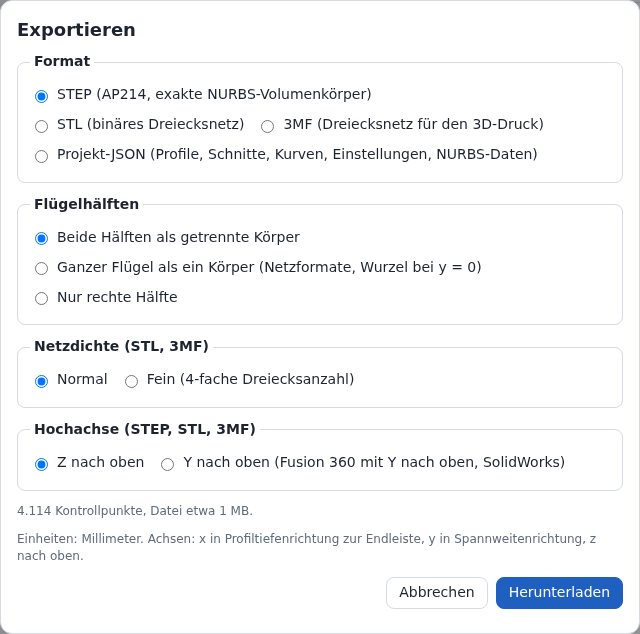
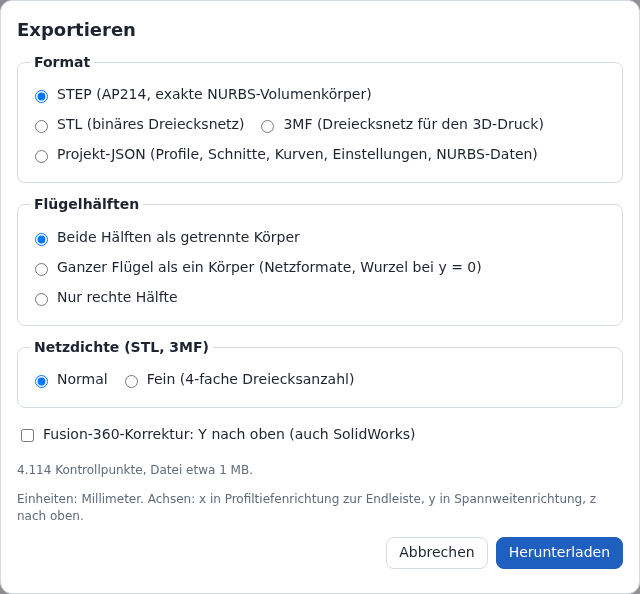
Make the up axis a Fusion 360 fix checkbox in the export dialog
The Up axis group with two radio buttons becomes one checkbox,
"Fusion 360 fix: Y up (also SolidWorks)". On writes STEP, STL and 3MF
with Y as the up axis, (x, z, -y); off keeps the app axes. The stored
choice, the axes note and the files are unchanged.

diff --git a/e2e/export.spec.js b/e2e/export.spec.js
@@ -10,7 +10,7 @@ import { strFromU8, unzipSync } from 'fflate';
 import {
   FORMAT_LABEL,
   STORAGE_KEY,
-  UP_LABEL,
+  FUSION_FIX,
   VALID_RE,
   collectErrors,
   commit,
@@ -226,13 +226,13 @@ test.describe('export dialog', () => {
     expect(Math.min(...ys)).toBeCloseTo(-Math.max(...ys), 3);
   });
 
-  test('Y up writes the part turned for CAD programs with Y as the up axis, and the dialog keeps the choice', async ({ page }) => {
+  test('the Fusion 360 fix writes the part with Y up, and the dialog keeps the choice', async ({ page }) => {
     await createDesign(page, 'Sport');
     const dlg = await openExport(page);
     const axes = dlg.getByText(/^Units: millimetres\. Axes:/);
-    await expect(dlg.getByLabel(UP_LABEL.z)).toBeChecked();
+    await expect(dlg.getByLabel(FUSION_FIX)).not.toBeChecked();
     await expect(axes).toHaveText('Units: millimetres. Axes: x chordwise towards the trailing edge, y spanwise, z up.');
-    await dlg.getByLabel(UP_LABEL.y).check();
+    await dlg.getByLabel(FUSION_FIX).check();
     await expect(axes).toHaveText('Units: millimetres. Axes: x chordwise towards the trailing edge, y up, z spanwise towards the left tip.');
     // The project JSON keeps the axes of the app.
     await dlg.getByLabel(FORMAT_LABEL.json).check();
@@ -249,11 +249,11 @@ test.describe('export dialog', () => {
     expect(signedVolume(yUp)).toBeCloseTo(signedVolume(zUp), 1);
 
     // The next export and a reload start with the last choice; Z up brings the app axes back.
-    await expect((await openExport(page)).getByLabel(UP_LABEL.y)).toBeChecked();
+    await expect((await openExport(page)).getByLabel(FUSION_FIX)).toBeChecked();
     await dialogOf(page).getByRole('button', { name: 'Cancel' }).click();
     await page.reload();
     await expect(status(page)).toHaveText(SPORT_STATUS);
-    await expect((await openExport(page)).getByLabel(UP_LABEL.y)).toBeChecked();
+    await expect((await openExport(page)).getByLabel(FUSION_FIX)).toBeChecked();
     await dialogOf(page).getByRole('button', { name: 'Cancel' }).click();
     const back = parseStl((await exportFile(page, 'stl', { half: 'right', up: 'z' })).bytes).tris;
     expect(back.map((t) => t.map(({ p }) => p))).toEqual(zUp.map((t) => t.map(({ p }) => p)));

diff --git a/src/ui/exportui.js b/src/ui/exportui.js
@@ -83,7 +83,7 @@ export function exportDialog(store, getBuild, version, notify = () => {}) {
     h('label', { class: 'check' }, h('input', { type: 'radio', name: group, value, checked, disabled }), label);
   const sizeNote = h('p', { class: 'small', 'aria-live': 'polite' });
   const downloadBtn = h('button', { value: 'ok', class: 'primary' }, tr('Download'));
-  const choice = (form) => ({ fmt: form.fmt.value, half: form.half.value, dens: Number(form.dens.value), up: form.up.value });
+  const choice = (form) => ({ fmt: form.fmt.value, half: form.half.value, dens: Number(form.dens.value), up: form.fusion.checked ? 'y' : 'z' });
   const up = storedUpAxis();
   const axesNote = h('p', { class: 'small muted' });
   const refresh = () => {
@@ -123,13 +123,8 @@ export function exportDialog(store, getBuild, version, notify = () => {}) {
         radio('half', 'right', tr('Right half only'), false),
       ),
       h('fieldset', {}, h('legend', {}, tr('Mesh density (STL, 3MF)')), radio('dens', '1', tr('Normal'), true), radio('dens', '2', tr('Fine (4x triangles)'), false)),
-      h(
-        'fieldset',
-        {},
-        h('legend', {}, tr('Up axis (STEP, STL, 3MF)')),
-        radio('up', 'z', tr('Z up'), up === 'z'),
-        radio('up', 'y', tr('Y up (Fusion 360 set to Y up, SolidWorks)'), up === 'y'),
-      ),
+      // The Fusion 360 fix: Y as the up axis (src/export/axes.js) for STEP, STL and 3MF.
+      h('label', { class: 'check' }, h('input', { type: 'checkbox', name: 'fusion', checked: up === 'y' }), tr('Fusion 360 fix: Y up (also SolidWorks)')),
       sizeNote,
       axesNote,
       h('div', { class: 'row end' }, h('button', { type: 'button', onclick: () => dialog.close('cancel') }, tr('Cancel')), downloadBtn),
@@ -145,7 +140,7 @@ export function exportDialog(store, getBuild, version, notify = () => {}) {
     const fmt = data.get('fmt');
     const half = data.get('half');
     const dens = Number(data.get('dens'));
-    const upAxis = data.get('up');
+    const upAxis = data.get('fusion') === 'on' ? 'y' : 'z';
     if (fmt !== 'json') {
       try {
         localStorage.setItem(UP_AXIS_KEY, upAxis);

diff --git a/e2e/helpers.js b/e2e/helpers.js
@@ -247,7 +247,8 @@ export async function downloadOf(page, trigger) {
 export const FORMAT_LABEL = { step: /^STEP/, stl: /^STL/, '3mf': /^3MF/, json: /^Project JSON/ };
 export const HALF_LABEL = { halves: /^Both halves as separate bodies/, merged: /^Full wing as one body/, right: /^Right half only/ };
 export const DENS_LABEL = { normal: /^Normal/, fine: /^Fine/ };
-export const UP_LABEL = { z: /^Z up$/, y: /^Y up/ };
+/** The checkbox that writes Y as the up axis (the Fusion 360 fix). */
+export const FUSION_FIX = /^Fusion 360 fix: Y up/;
 
 export async function openExport(page) {
   await page.getByRole('button', { name: 'Export', exact: true }).click();
@@ -262,8 +263,9 @@ export async function exportFile(page, fmt, { half = 'halves', dens = 'normal', 
   await dlg.getByLabel(FORMAT_LABEL[fmt]).check();
   await dlg.getByLabel(HALF_LABEL[half]).check();
   await dlg.getByLabel(DENS_LABEL[dens]).check();
-  // Without `up` the dialog keeps the up axis it starts with (the one of the last export).
-  if (up) await dlg.getByLabel(UP_LABEL[up]).check();
+  // Without `up` the dialog keeps the up axis it starts with (the one of the last export); 'y' is the
+  // Fusion 360 fix.
+  if (up) await dlg.getByLabel(FUSION_FIX).setChecked(up === 'y');
   const file = await downloadOf(page, () => dlg.getByRole('button', { name: 'Download' }).click());
   await expect(dialogOf(page)).toHaveCount(0);
   return file;

diff --git a/src/i18n/de/panels.js b/src/i18n/de/panels.js
@@ -126,9 +126,7 @@ export default {
   'Fine (4x triangles)': 'Fein (4-fache Dreiecksanzahl)',
   'Units: millimetres. Axes: x chordwise towards the trailing edge, y up, z spanwise towards the left tip.':
     'Einheiten: Millimeter. Achsen: x in Profiltiefenrichtung zur Endleiste, y nach oben, z in Spannweitenrichtung zum linken Flügelende.',
-  'Up axis (STEP, STL, 3MF)': 'Hochachse (STEP, STL, 3MF)',
-  'Z up': 'Z nach oben',
-  'Y up (Fusion 360 set to Y up, SolidWorks)': 'Y nach oben (Fusion 360 mit Y nach oben, SolidWorks)',
+  'Fusion 360 fix: Y up (also SolidWorks)': 'Fusion-360-Korrektur: Y nach oben (auch SolidWorks)',
   'Units: millimetres. Axes: x chordwise towards the trailing edge, y spanwise, z up.': 'Einheiten: Millimeter. Achsen: x in Profiltiefenrichtung zur Endleiste, y in Spannweitenrichtung, z nach oben.',
   '{n} control points, file {size}': '{n} Kontrollpunkte, Datei {size}',
   '{n} million control points, file {size}': '{n} Millionen Kontrollpunkte, Datei {size}',

diff --git a/docs/wiki/Dateiformate.md b/docs/wiki/Dateiformate.md
@@ -931,11 +931,11 @@ Fixture B (Einstellwinkel 1°, Position 50, 0, 10 mm; Clark Y an den Schnitten 1
 | **Nur rechte Hälfte** (Right half only) | 1 Volumenkörper | 1 geschlossene Hülle | 1 Objekt: `Wing right` |
 
 - **Ganzer Flügel als ein Körper** (Full wing as one body) setzt den Wurzelschnitt bei genau y = 0 mm voraus. Sonst enthalten STL und 3MF 2 Hüllen, wie bei **Beide Hälften als getrennte Körper**.
-- **Hochachse (STEP, STL, 3MF)** (Up axis (STEP, STL, 3MF)): **Z nach oben** schreibt die Achsen der App (x in Profiltiefenrichtung zur Endleiste, y in Spannweitenrichtung zum rechten Flügelende, z nach oben). **Y nach oben** schreibt jeden Punkt als (x, z, −y) und jede Richtung ebenso (`src/export/axes.js`): Die Oberseite zeigt nach +Y, die Profiltiefe verläuft entlang X, `right` liegt bei Z ≤ 0 und `left` bei Z ≥ 0. Die Drehung ist eine Rotation: Orientierungen, geschlossene Hüllen und Volumen bleiben. Die Weltlage der STEP-Datei (`AXIS2_PLACEMENT_3D` im Ursprung mit z- und x-Richtung) bleibt. Die Projekt-JSON enthält immer die Achsen der App. Warum und wann: [[Benutzerhandbuch|Benutzerhandbuch]], Abschnitt Export.
+- **Fusion-360-Korrektur: Y nach oben (auch SolidWorks)** (Fusion 360 fix: Y up (also SolidWorks)) (STEP, STL, 3MF): Ausgeschaltet schreibt der Export die Achsen der App (x in Profiltiefenrichtung zur Endleiste, y in Spannweitenrichtung zum rechten Flügelende, z nach oben). Eingeschaltet schreibt er jeden Punkt als (x, z, −y) und jede Richtung ebenso (`src/export/axes.js`): Die Oberseite zeigt nach +Y, die Profiltiefe verläuft entlang X, `right` liegt bei Z ≤ 0 und `left` bei Z ≥ 0. Die Drehung ist eine Rotation: Orientierungen, geschlossene Hüllen und Volumen bleiben. Die Weltlage der STEP-Datei (`AXIS2_PLACEMENT_3D` im Ursprung mit z- und x-Richtung) bleibt. Die Projekt-JSON enthält immer die Achsen der App. Warum und wann: [[Benutzerhandbuch|Benutzerhandbuch]], Abschnitt Export.
 - **Netzdichte (STL, 3MF)** (Mesh density (STL, 3MF)): **Normal** oder **Fein (4-fache Dreiecksanzahl)** (Fine (4x triangles)). **Fein** (Fine) teilt jedes u-Intervall (Profiltiefenrichtung) und jedes v-Intervall (Spannweitenrichtung) des **Normal**-Netzes in 2. Gemessene Dreieckszahl: 3,0- bis 3,9-fach gegenüber **Normal** (Tabelle „Dateigrößen“).
 - Aufbau der Dreiecksnetze und Dreieckszahlen: [[Geometrie|Geometrie]], Abschnitt 5 „Dreiecksnetze“.
 
-![Exportdialog: Format, Flügelhälften, Netzdichte, Hochachse](images/de/export-dialog.png)
+![Exportdialog: Format, Flügelhälften, Netzdichte, Fusion-360-Korrektur](images/de/export-dialog.png)
 
 ## STEP
 
@@ -952,8 +952,8 @@ Fixture B (Einstellwinkel 1°, Position 50, 0, 10 mm; Clark Y an den Schnitten 1
 | Einheiten | Millimeter, Radiant, Steradiant |
 | Toleranz | 1e-7 mm (`distance_accuracy_value`) |
 | Volumenkörper | 1 `MANIFOLD_SOLID_BREP` (Volumenkörper in Randdarstellung, boundary representation) je Hälfte |
-| Namen der Volumenkörper | `<name> right` (y ≥ 0; **Y nach oben**: Z ≤ 0), `<name> left` (gespiegelt, y ≤ 0; **Y nach oben**: Z ≥ 0) |
-| Achsen | **Z nach oben**: wie in der App; **Y nach oben**: (x, z, −y) (Abschnitt „Körper je Datei“) |
+| Namen der Volumenkörper | `<name> right` (y ≥ 0; mit **Fusion-360-Korrektur**: Z ≤ 0), `<name> left` (gespiegelt, y ≤ 0; mit **Fusion-360-Korrektur**: Z ≥ 0) |
+| Achsen | wie in der App; mit **Fusion-360-Korrektur**: (x, z, −y) (Abschnitt „Körper je Datei“) |
 | Formdarstellung | 1 `ADVANCED_BREP_SHAPE_REPRESENTATION` mit dem Namen `<name>` enthält alle Volumenkörper |
 | Flächen | `B_SPLINE_SURFACE_WITH_KNOTS`, nicht-rational: Oberseite, Unterseite, offene Endleiste. `PLANE`: Wurzel und Rand. |
 | Kantenkurven | `B_SPLINE_CURVE_WITH_KNOTS` |
@@ -973,7 +973,7 @@ Abschnitt 6 „STEP-Topologie“.
 | Je Dreieck | 50 Byte: Normale (3 × `float32`), 3 Eckpunkte (9 × `float32`), Attribut `uint16` = 0 |
 | Dateigröße | 84 + 50 × Dreieckszahl Byte |
 | Einheiten | mm. STL hat kein Einheitenfeld. |
-| Achsen | **Z nach oben**: wie in der App; **Y nach oben**: (x, z, −y) (Abschnitt „Körper je Datei“) |
+| Achsen | wie in der App; mit **Fusion-360-Korrektur**: (x, z, −y) (Abschnitt „Körper je Datei“) |
 | Normalen | Länge 1, aus den Eckpunkten berechnet; Eckpunkte von außen gesehen gegen den Uhrzeigersinn, Normalen zeigen nach außen |
 
 ## 3MF
@@ -983,7 +983,7 @@ Abschnitt 6 „STEP-Topologie“.
 | Paket | Zip, Deflate-Stufe 6: `[Content_Types].xml`, `_rels/.rels`, `3D/3dmodel.model` |
 | Namensraum | `http://schemas.microsoft.com/3dmanufacturing/core/2015/02` (3MF Core) |
 | `<model>` | `unit="millimeter"`, `xml:lang="en-US"` |
-| Achsen | **Z nach oben**: wie in der App; **Y nach oben**: (x, z, −y) (Abschnitt „Körper je Datei“) |
+| Achsen | wie in der App; mit **Fusion-360-Korrektur**: (x, z, −y) (Abschnitt „Körper je Datei“) |
 | Metadaten | `Title` = `<name>` (Abschnitt „Dateinamen beim Export“), `Application` = `Wingdesigner` |
 | Objekte | 1 `<object type="model">` je Hülle, 1 `<build><item>` je Objekt; Namen: Tabelle „Körper je Datei“ |
 | Eckpunkte | 9 signifikante Stellen (genug für jede 32-Bit-Gleitkommazahl), kürzeste Form ohne Nullen am Ende, z. B. `1000000.12`, `0.123456789`, `12`; Beträge unter 1e-6 mm in Exponentenschreibweise, z. B. `-1e-7`; null als `0` |

diff --git a/docs/wiki/File-Formats.md b/docs/wiki/File-Formats.md
@@ -928,11 +928,11 @@ Fixture B (tilt angle 1°, position 50, 0, 10 mm; Clark Y at sections 1 and 2): 
 | **Right half only** | 1 solid | 1 closed shell | 1 object: `Wing right` |
 
 - **Full wing** needs the root section at exactly y = 0 mm. Otherwise STL and 3MF contain 2 shells, as with **Both halves**.
-- **Up axis (STEP, STL, 3MF)**: **Z up** writes the axes of the app (x chordwise towards the TE, y spanwise towards the right tip, z up). **Y up** writes every point as (x, z, −y) and every direction the same way (`src/export/axes.js`): the upper surface faces +Y, the chord runs along X, `right` lies at Z ≤ 0 and `left` at Z ≥ 0. The turn is a rotation: orientations, closed shells and volumes stay. The STEP world placement (`AXIS2_PLACEMENT_3D` at the origin with z and x directions) stays. The project JSON always holds the axes of the app. Why and when: [[User Guide|User-Guide]], section Export.
+- **Fusion 360 fix: Y up (also SolidWorks)** (STEP, STL, 3MF): off, the export writes the axes of the app (x chordwise towards the TE, y spanwise towards the right tip, z up). On, it writes every point as (x, z, −y) and every direction the same way (`src/export/axes.js`): the upper surface faces +Y, the chord runs along X, `right` lies at Z ≤ 0 and `left` at Z ≥ 0. The turn is a rotation: orientations, closed shells and volumes stay. The STEP world placement (`AXIS2_PLACEMENT_3D` at the origin with z and x directions) stays. The project JSON always holds the axes of the app. Why and when: [[User Guide|User-Guide]], section Export.
 - **Mesh density (STL, 3MF)**: **Normal** or **Fine (4x triangles)**. **Fine** splits every u interval (chordwise) and every v interval (spanwise) of the **Normal** mesh into 2. Measured triangle count: 3.0 to 3.9 times **Normal** (table "File sizes").
 - Mesh construction and triangle counts: [[Geometry|Geometry]], section 5 "Meshes".
 
-![Export dialog: format, wing halves, mesh density, up axis](images/export-dialog.png)
+![Export dialog: format, wing halves, mesh density, Fusion 360 fix](images/export-dialog.png)
 
 ## STEP
 
@@ -949,8 +949,8 @@ Fixture B (tilt angle 1°, position 50, 0, 10 mm; Clark Y at sections 1 and 2): 
 | Units | millimetre, radian, steradian |
 | Uncertainty | 1e-7 mm (`distance_accuracy_value`) |
 | Solids | 1 `MANIFOLD_SOLID_BREP` (boundary representation solid) per half |
-| Solid names | `<name> right` (y ≥ 0; **Y up**: Z ≤ 0), `<name> left` (mirrored, y ≤ 0; **Y up**: Z ≥ 0) |
-| Axes | **Z up**: as the app; **Y up**: (x, z, −y) (section "Bodies per file") |
+| Solid names | `<name> right` (y ≥ 0; with **Fusion 360 fix**: Z ≤ 0), `<name> left` (mirrored, y ≤ 0; with **Fusion 360 fix**: Z ≥ 0) |
+| Axes | as the app; with **Fusion 360 fix**: (x, z, −y) (section "Bodies per file") |
 | Shape representation | 1 `ADVANCED_BREP_SHAPE_REPRESENTATION` named `<name>` holds all solids |
 | Surfaces | `B_SPLINE_SURFACE_WITH_KNOTS`, non-rational: upper surface, lower surface, open TE. `PLANE`: root and tip. |
 | Edge curves | `B_SPLINE_CURVE_WITH_KNOTS` |
@@ -969,7 +969,7 @@ Faces, edges, orientation flags and the OpenCascade validation: [[Geometry|Geome
 | Per triangle | 50 bytes: normal (3 × `float32`), 3 vertices (9 × `float32`), attribute `uint16` = 0 |
 | File size | 84 + 50 × triangle count bytes |
 | Units | mm. STL has no unit field. |
-| Axes | **Z up**: as the app; **Y up**: (x, z, −y) (section "Bodies per file") |
+| Axes | as the app; with **Fusion 360 fix**: (x, z, −y) (section "Bodies per file") |
 | Normals | unit length, computed from the vertices; vertices counterclockwise seen from outside, normals point outward |
 
 ## 3MF
@@ -979,7 +979,7 @@ Faces, edges, orientation flags and the OpenCascade validation: [[Geometry|Geome
 | Package | zip, deflate level 6: `[Content_Types].xml`, `_rels/.rels`, `3D/3dmodel.model` |
 | Namespace | `http://schemas.microsoft.com/3dmanufacturing/core/2015/02` (3MF Core) |
 | `<model>` | `unit="millimeter"`, `xml:lang="en-US"` |
-| Axes | **Z up**: as the app; **Y up**: (x, z, −y) (section "Bodies per file") |
+| Axes | as the app; with **Fusion 360 fix**: (x, z, −y) (section "Bodies per file") |
 | Metadata | `Title` = `<name>` (section "Export file names"), `Application` = `Wingdesigner` |
 | Objects | 1 `<object type="model">` per shell, 1 `<build><item>` per object; names: table "Bodies per file" |
 | Vertices | 9 significant digits (enough for every 32-bit float), shortest form without trailing zeros, e.g. `1000000.12`, `0.123456789`, `12`; magnitudes below 1e-6 mm in exponent notation, e.g. `-1e-7`; zero as `0` |

diff --git a/docs/wiki/Benutzerhandbuch.md b/docs/wiki/Benutzerhandbuch.md
@@ -903,7 +903,7 @@ Gemessen je Änderung einer Profiltiefe im Browser: Chromium 141 headless, Softw
 
 ## Export
 
-![Exportdialog: Format, Flügelhälften, Netzdichte, Hochachse](images/de/export-dialog.png)
+![Exportdialog: Format, Flügelhälften, Netzdichte, Fusion-360-Korrektur](images/de/export-dialog.png)
 
 Der Exportdialog trägt den Titel **Exportieren** (Export).
 
@@ -925,16 +925,15 @@ Der Exportdialog trägt den Titel **Exportieren** (Export).
 | **Flügelhälften** | **Nur rechte Hälfte** (Right half only) | – |
 | **Netzdichte (STL, 3MF)** (Mesh density (STL, 3MF)) | **Normal** | ausgewählt |
 | **Netzdichte (STL, 3MF)** | **Fein (4-fache Dreiecksanzahl)** (Fine (4x triangles)): verdoppelt die Unterteilung in beiden Flächenrichtungen | – |
-| **Hochachse (STEP, STL, 3MF)** (Up axis (STEP, STL, 3MF)) | **Z nach oben** (Z up): die Achsen der App | ausgewählt, außer der letzte Export als STEP, STL oder 3MF nutzte **Y nach oben** |
-| **Hochachse (STEP, STL, 3MF)** | **Y nach oben (Fusion 360 mit Y nach oben, SolidWorks)** (Y up (Fusion 360 set to Y up, SolidWorks)): das Teil um −90° um x gedreht | – |
+| Kontrollkästchen | **Fusion-360-Korrektur: Y nach oben (auch SolidWorks)** (Fusion 360 fix: Y up (also SolidWorks)): STEP, STL und 3MF mit Y als Hochachse, das Teil um −90° um x gedreht | aus, außer es war beim letzten Export als STEP, STL oder 3MF an |
 
-Hochachse:
+Fusion-360-Korrektur:
 
 - Die App rechnet mit x in Profiltiefenrichtung zur Endleiste, y in Spannweitenrichtung zum rechten Flügelende und z nach oben. Ein CAD-Programm mit Y als Hochachse liest eine solche Datei mit der Spannweite nach oben und der Oberseite nach vorn. Beispiel: Fusion 360 mit **Preferences** > **General** > **Design** > **Default modeling orientation** „Y up“ (Bezeichnungen der englischen Oberfläche von Fusion 360) zeigt in seiner Draufsicht die Seite des Flügels.
-- **Y nach oben** schreibt jeden Punkt als (x, z, −y): Die Oberseite zeigt nach +Y, die Profiltiefe bleibt entlang X, die rechte Hälfte liegt bei Z ≤ 0 und die linke bei Z ≥ 0. Der Hinweis unter den Optionen nennt die Achsen der Datei: `Einheiten: Millimeter. Achsen: x in Profiltiefenrichtung zur Endleiste, y nach oben, z in Spannweitenrichtung zum linken Flügelende.`
-- Die Wahl gilt für STEP, STL und 3MF. Die Projekt-JSON behält die Achsen der App.
-- Der Dialog beginnt mit der Hochachse des letzten Exports als STEP, STL oder 3MF, im Browser unter `wingdesigner.upAxis` gespeichert. Ohne Browserspeicher beginnt er mit **Z nach oben**.
-- Andere Wege in Fusion 360: vor dem Öffnen einer Datei mit **Z nach oben** die **Default modeling orientation** auf „Z up“ stellen, oder den Körper um −90° um die X-Achse drehen (**Modify** > **Move/Copy**).
+- Mit eingeschaltetem Kontrollkästchen schreibt der Export jeden Punkt als (x, z, −y): Die Oberseite zeigt nach +Y, die Profiltiefe bleibt entlang X, die rechte Hälfte liegt bei Z ≤ 0 und die linke bei Z ≥ 0. Der Hinweis unter den Optionen nennt die Achsen der Datei: `Einheiten: Millimeter. Achsen: x in Profiltiefenrichtung zur Endleiste, y nach oben, z in Spannweitenrichtung zum linken Flügelende.`
+- Die Korrektur gilt für STEP, STL und 3MF. Die Projekt-JSON behält die Achsen der App.
+- Das Kontrollkästchen beginnt so, wie es beim letzten Export als STEP, STL oder 3MF war, im Browser unter `wingdesigner.upAxis` gespeichert (`y` für an, `z` für aus). Ohne Browserspeicher beginnt es ausgeschaltet.
+- Andere Wege in Fusion 360: vor dem Öffnen einer Datei ohne Korrektur die **Default modeling orientation** auf „Z up“ stellen, oder den Körper um −90° um die X-Achse drehen (**Modify** > **Move/Copy**).
 
 Für STL und 3MF nennt ein Hinweis unter der Netzdichte die Dreiecke und die Dateigröße für Format, Flügelhälften und Netzdichte der Auswahl, z. B. Entwurfstyp **Segelflugmodell** (Glider), STL, beide Hälften, **Normal**: `0,02 Millionen Dreiecke, Datei etwa 1,2 MB.` Projekt-JSON zeigt keinen Hinweis.
 

diff --git a/RECORD.md b/RECORD.md
@@ -44,7 +44,7 @@ Last updated: 2026-09-30
 | Mitred rolls from the section positions (y, z), not stored | No roll column to type or keep consistent. Cost: an XFLR5 import whose airfoil frames move sections builds rolls that differ from XFLR5's (0.6° and 1.1° on the untilted Fixture A, within 0.1 mm at its trailing edges; 0.005 mm on 9 flat real wings). A manual roll column (option e) is not decided. |
 | **Linear** panels between planes of different roll get the stations per panel (R4) | The airfoil lies in every plane between, as with guide curves. With one station per panel the loft would be the ruled surface of **Straight panels**. Presets with dihedral build 9 or 17 stations; the Sport wing follows the **Linear** blend exactly (1.4 % less volume than the ruled vertical build, 0.343 mm off it). |
 | Stretch limit 2 (60°) and fold tests are build errors; the stretch is never clamped (R6) | 1/cos grows without bound; a clamped stretch would build the wrong thickness without a message. The fold test runs between neighbouring sections before the loft (`planeFold`), at every check position of a **Linear** panel whose planes turn (the rate cos φ + tan δ · sin φ − t · dφ/dy across the plane of the station), and between neighbouring stations after the fit. The code review of 4534c32 found that the station test alone missed a fold inside the first station interval: 3 stations per panel built, and the right half crossed y = 0 by 0.08 to 0.7 mm; 4 and more stations reported it. |
-| Export option **Up axis**: **Z up** (default) or **Y up** = (x, z, −y), chord kept along X (owner decision of 2026-09-30) | Fusion 360 set to Y up (and SolidWorks) read the Z-up file with the span up and the upper surface to the front; the owner's photo of a Fusion import showed the side of the wing in the top view. The turn keeps the chord along X; the other offered mapping (span along X, nose to +Z) was not chosen. The choice is stored per browser, not in the project: it belongs to the CAD program. |
+| Export checkbox **Fusion 360 fix: Y up (also SolidWorks)**: off = the app axes, on = (x, z, −y), chord kept along X (owner decisions of 2026-09-30: the mapping, then one checkbox instead of two radio buttons) | Fusion 360 set to Y up (and SolidWorks) read the Z-up file with the span up and the upper surface to the front; the owner's photo of a Fusion import showed the side of the wing in the top view. The turn keeps the chord along X; the other offered mapping (span along X, nose to +Z) was not chosen. The choice is stored per browser, not in the project: it belongs to the CAD program. |
 | **Smooth** builds vertical planes with an info line (owner decision (b)) | The mitred construction along a spline is not built or measured; an error would block the sample wing's smooth variant, and a silent switch would hide the setting. |
 | XFLR5 import: untilted parts mitred, tilted parts vertical with `foldedTilt`, mitred parts that fold or stretch above 2 vertical (R5) | A rotation about y keeps vertical planes, so a folded tilt is exact only for them (0.45 mm off with mitred planes on Fixture A). The fallback is decided on the section values and airfoils (`mitredPlaneProblem`), without the loft, so it holds where the dialog does not build. A tilted part set to **Mitred** later gets a warning with the estimate (owner decision). |
 | Pointed tip: tip profile scaled to 1/100 to 1/1000 (default 1/200) of the previous section chord, at least 1 mm | A zero chord has no profile and no valid B-rep face; a scaled profile keeps the tip closed, profile-shaped and exportable. Converging guide curves end in this profile. |

diff --git a/README.de.md b/README.de.md
@@ -103,7 +103,7 @@ Beispiel: `Flügel V2 (neu)` → `Fluegel_V2_neu.step`.
 | | **Ganzer Flügel als ein Körper** (Full wing as one body) | STL und 3MF: 1 Hülle, nur wenn der Wurzelschnitt bei y = 0 liegt, sonst 2 Körper. STEP: 2 Volumenkörper. |
 | | **Nur rechte Hälfte** (Right half only) | 1 Körper |
 | **Netzdichte** (Mesh density) | **Normal** (Vorgabe), **Fein (4-fache Dreiecksanzahl)** (Fine (4x triangles)) | Nur STL und 3MF. Ein Hinweis unter den Optionen nennt Anzahl der Dreiecke und Dateigröße für das gewählte Format, die Flügelhälften und die Netzdichte: `… Millionen Dreiecke, Datei etwa … MB.` Über 2 000 000 Dreiecken fügt er `Der Export dauert … und belegt … Arbeitsspeicher.` hinzu. Über 10 000 000 Dreiecken ist **Herunterladen** (Download) gesperrt; der Hinweis nennt die Grenze und die Abhilfe: Netzdichte **Normal**, eine Hälfte, weniger Stationen je Profilseite oder je Feld. |
-| **Hochachse** (Up axis) (STEP, STL, 3MF) | **Z nach oben** (Vorgabe), **Y nach oben (Fusion 360 mit Y nach oben, SolidWorks)** | **Y nach oben** schreibt jeden Punkt (x, y, z) als (x, z, −y): Die Oberseite zeigt nach +Y, die Profiltiefe bleibt entlang X, die Spannweite verläuft entlang Z. Für CAD-Programme mit Y als Hochachse, die eine Datei mit Z nach oben auf der Seite liegend zeigen. Der Dialog beginnt mit der Wahl des letzten Exports (Browserspeicher). Die Projekt-JSON behält die Achsen der App. |
+| **Fusion-360-Korrektur: Y nach oben (auch SolidWorks)** (Fusion 360 fix: Y up (also SolidWorks)) (STEP, STL, 3MF) | aus (Vorgabe), an | Eingeschaltet schreibt der Export jeden Punkt (x, y, z) als (x, z, −y): Die Oberseite zeigt nach +Y, die Profiltiefe bleibt entlang X, die Spannweite verläuft entlang Z. Für CAD-Programme mit Y als Hochachse, die eine Datei mit Z nach oben auf der Seite liegend zeigen. Das Kontrollkästchen beginnt so, wie es beim letzten Export war (Browserspeicher). Die Projekt-JSON behält die Achsen der App. |
 | **Format** STEP | – | Ein Hinweis nennt Kontrollpunkte und Dateigröße für die gewählten Hälften: `… Kontrollpunkte, Datei etwa … MB.` Über 1 000 000 Kontrollpunkten fügt er Zeit und Arbeitsspeicher hinzu; über 3 000 000 ist **Herunterladen** gesperrt, und der Hinweis nennt die Grenze und die Abhilfe: eine Hälfte, weniger Stationen je Profilseite oder je Feld. |
 
 ## Profildaten und Lizenzen
@@ -192,7 +192,7 @@ Beispiel: `Flügel V2 (neu)` → `Fluegel_V2_neu.step`.
    Liegt keine Spannweitenposition zwischen der Zeile und dem nächsten Schnitt, zeigt **+** eine Meldung und fügt nichts ein. **×** löscht die Zeile (gesperrt bei 2 Schnitten).
 4. **Grundriss** (Planform): **Leitkurve verwenden** (Use guide curve) für Nasenlinie oder Endlinie ankreuzen. Punkte ziehen.
 5. **Prüfungen** (Checks): Fehler, Warnungen und Grundrisswerte lesen.
-6. **Exportieren** (Export): Format, Flügelhälften, Netzdichte und Hochachse wählen, dann **Herunterladen** (Download) klicken.
+6. **Exportieren** (Export): Format, Flügelhälften und Netzdichte wählen (für Fusion 360 mit Y nach oben: **Fusion-360-Korrektur**), dann **Herunterladen** (Download) klicken.
    Ein Hinweis nennt die Anzahl der Dreiecke (STL, 3MF) oder der Kontrollpunkte (STEP) und die Dateigröße; über 10 000 000 Dreiecken oder 3 000 000 Kontrollpunkten ist **Herunterladen** gesperrt.
 
 ## Ohne Internet

diff --git a/docs/wiki/User-Guide.md b/docs/wiki/User-Guide.md
@@ -898,7 +898,7 @@ Measured per chord edit in the browser: Chromium 141 headless, software renderin
 
 ## Export
 
-![Export dialog: format, wing halves, mesh density, up axis](images/export-dialog.png)
+![Export dialog: format, wing halves, mesh density, Fusion 360 fix](images/export-dialog.png)
 
 | Format | Meaning | Content |
 | --- | --- | --- |
@@ -918,16 +918,15 @@ Measured per chord edit in the browser: Chromium 141 headless, software renderin
 | Wing halves | **Right half only** | – |
 | Mesh density (STL, 3MF) | **Normal** | selected |
 | Mesh density (STL, 3MF) | **Fine (4x triangles)**: doubles the subdivision in both surface directions | – |
-| Up axis (STEP, STL, 3MF) | **Z up**: the axes of the app | selected, unless the last STEP, STL or 3MF export used **Y up** |
-| Up axis (STEP, STL, 3MF) | **Y up (Fusion 360 set to Y up, SolidWorks)**: the part turned by −90° about x | – |
+| Checkbox | **Fusion 360 fix: Y up (also SolidWorks)**: STEP, STL and 3MF with Y as the up axis, the part turned by −90° about x | off, unless it was on at the last STEP, STL or 3MF export |
 
-Up axis:
+Fusion 360 fix:
 
 - The app computes with x chordwise towards the trailing edge, y spanwise towards the right tip and z up. A CAD program with Y as the up axis reads such a file with the span pointing up and the upper surface facing its front. Example: Fusion 360 with **Preferences** > **General** > **Design** > **Default modeling orientation** set to **Y up** shows the side of the wing in its top view.
-- **Y up** writes every point as (x, z, −y): the upper surface faces +Y, the chord stays along X, the right half lies at Z ≤ 0 and the left half at Z ≥ 0. The note under the options names the axes of the file: `Units: millimetres. Axes: x chordwise towards the trailing edge, y up, z spanwise towards the left tip.`
-- The choice applies to STEP, STL and 3MF. The project JSON keeps the axes of the app.
-- The dialog starts with the up axis of the last STEP, STL or 3MF export, stored in the browser under `wingdesigner.upAxis`. Without browser storage it starts with **Z up**.
-- Other ways in Fusion 360: set **Default modeling orientation** to **Z up** before opening a **Z up** file, or turn the body by −90° about the X axis (**Modify** > **Move/Copy**).
+- With the checkbox on, the export writes every point as (x, z, −y): the upper surface faces +Y, the chord stays along X, the right half lies at Z ≤ 0 and the left half at Z ≥ 0. The note under the options names the axes of the file: `Units: millimetres. Axes: x chordwise towards the trailing edge, y up, z spanwise towards the left tip.`
+- The fix applies to STEP, STL and 3MF. The project JSON keeps the axes of the app.
+- The checkbox starts as it was at the last STEP, STL or 3MF export, stored in the browser under `wingdesigner.upAxis` (`y` for on, `z` for off). Without browser storage it starts off.
+- Other ways in Fusion 360: set **Default modeling orientation** to **Z up** before opening a file written without the fix, or turn the body by −90° about the X axis (**Modify** > **Move/Copy**).
 
 For STL and 3MF, a note under the mesh density gives the triangles and the file size of the chosen format, wing halves and density, e.g. Glider preset, STL, both halves, **Normal**: `0.02 million triangles, file about 1.2 MB.` Project JSON shows no note.
 

diff --git a/docs/wiki/Entwicklung.md b/docs/wiki/Entwicklung.md
@@ -53,7 +53,7 @@ Erzeugt und nicht eingecheckt (`.gitignore`): `dist/`, `coverage/`, `step-check/
 | `src/airfoil/naca.js` | Generator für 4- und 5-stellige NACA-Profile; `leadingNacaCode` findet den Code, mit dem ein Name beginnt (`NACA0014_Flap`) |
 | `src/airfoil/library.js` | 17 NACA-Vorlagen, mitgelieferte Bibliothek, externe Quellen; `librarySource` (Quellenangabe eines mitgelieferten Eintrags) |
 | `src/export/step.js` | STEP-Export; Dateiformat nach International Organization for Standardization (ISO) 10303-21 |
-| `src/export/axes.js` | Hochachse der exportierten Dateien: `UP_AXES`, `upAxisMap` (unverändert für Z nach oben, (x, z, −y) für Y nach oben), `meshToUpAxis` |
+| `src/export/axes.js` | Hochachse der exportierten Dateien (die Fusion-360-Korrektur des Exportdialogs): `UP_AXES`, `upAxisMap` (unverändert für Z nach oben, (x, z, −y) für Y nach oben), `meshToUpAxis` |
 | `src/export/stl.js` | Export als binäres STL (Stereolithografie) |
 | `src/export/threemf.js` | 3MF-Export |
 | `src/import/errors.js` | `XflrError`: Fehler auf Dateiebene der XFLR5-Leser, mit einem `code` und, bei einem `.xfl`-Projekt, dem Byte-`offset` |
@@ -490,7 +490,7 @@ x und z: Lage der Profilnase.
 | `pointed-elliptic-closed` | Spitzer Rand, Verhältnis 0,005 (1/200); Nasenlinie und Endlinie treffen sich bei x = 115 mm, y = 600 mm; geschlossene Endleiste | 2 |
 | `symmetric-0009` | NACA 0009 an jedem Schnitt | 2 |
 | `mitred-vtail-35` | Nicht der Basisflügel: 2 Schnitte mit NACA 0009, Profiltiefen 120 und 70 mm, der Rand 320 mm entlang eines Feldes mit 35°, x 40 mm; **Gerade Felder** (Straight panels), Schnittebenen **Auf Gehrung** (Mitred) (Randfläche um 35° geneigt) | 2 |
-| `mitred-vtail-35-y-up` | Wie `mitred-vtail-35`, mit **Y nach oben** geschrieben: jeder Punkt als (x, z, −y) | 2 |
+| `mitred-vtail-35-y-up` | Wie `mitred-vtail-35`, mit **Fusion-360-Korrektur** (Y nach oben) geschrieben: jeder Punkt als (x, z, −y) | 2 |
 | `mitred-gull-15-5` | z 80,3848 mm an Schnitt 2 und 54,1382 mm am Rand (Felder mit 15° und −5°); Schnittebenen **Auf Gehrung** (Neigungen 0°, 5°, −5°), lineare Interpolation mit 8 Stationen je Feld | 2 |
 
 ## Dokumentation
@@ -537,7 +537,7 @@ Desktop: 1280 x 800 CSS-Pixel, Geräteskalierung 1. Smartphone: Pixel 7, Geräte
 | `planform.png` | Registerkarte **Grundriss** (Planform), **Segelflugmodell**, Nasenlinie und Endlinie eingeschaltet | 600 x 730 | 600 x 730 |
 | `airfoils.png` | Registerkarte **Profile** (Airfoils), **Segelflugmodell** | 600 x 730 | 600 x 730 |
 | `upload-preview.png` | Vorschau beim Hochladen einer synthetischen X/Yo/Yu-Prozenttabelle mit Dezimalkomma, geöffnet über dem Entwurfstyp **Segelflugmodell** | 640 x 646 | 640 x 710 |
-| `export-dialog.png` | Dialog **Exportieren** (Export), **Segelflugmodell** | 640 x 588 | 640 x 634 |
+| `export-dialog.png` | Dialog **Exportieren** (Export), **Segelflugmodell** | 640 x 548 | 640 x 594 |
 | `settings.png` | Registerkarte **Einstellungen** (Settings), **Segelflugmodell** | 600 x 730 | 600 x 730 |
 | `checks.png` | Registerkarte **Prüfungen** (Checks), **Segelflugmodell** | 600 x 730 | 600 x 730 |
 | `flying-wing-control-net.png` | 3D-Ansicht, **Pfeilnurflügel** (Swept flying wing), **NURBS-Kontrollnetz zeigen** (Show NURBS control net) an | 680 x 730 | 680 x 730 |

diff --git a/docs/wiki/Development.md b/docs/wiki/Development.md
@@ -53,7 +53,7 @@ Generated and not committed (`.gitignore`): `dist/`, `coverage/`, `step-check/`,
 | `src/airfoil/naca.js` | NACA 4- and 5-digit generator; `leadingNacaCode` finds the code that starts a name (`NACA0014_Flap`) |
 | `src/airfoil/library.js` | 17 NACA presets, bundled library, external sources; `librarySource` (source record of a bundled entry) |
 | `src/export/step.js` | STEP writer; file format International Organization for Standardization (ISO) 10303-21 |
-| `src/export/axes.js` | Up axis of the exported files: `UP_AXES`, `upAxisMap` (identity for Z up, (x, z, −y) for Y up), `meshToUpAxis` |
+| `src/export/axes.js` | Up axis of the exported files (the Fusion 360 fix of the export dialog): `UP_AXES`, `upAxisMap` (identity for Z up, (x, z, −y) for Y up), `meshToUpAxis` |
 | `src/export/stl.js` | Binary stereolithography (STL) writer |
 | `src/export/threemf.js` | 3MF writer |
 | `src/import/errors.js` | `XflrError`: file-level error of the XFLR5 readers, with a `code` and, for an `.xfl` project, the byte `offset` |
@@ -490,7 +490,7 @@ x and z: position of the leading edge.
 | `pointed-elliptic-closed` | Pointed tip, ratio 0.005 (1/200); nose line and end line meet at x = 115 mm, y = 600 mm; closed trailing edge | 2 |
 | `symmetric-0009` | NACA 0009 at every section | 2 |
 | `mitred-vtail-35` | Not the base wing: 2 sections of NACA 0009, chords 120 and 70 mm, the tip 320 mm along a 35° panel, x 40 mm; **Straight panels**, **Mitred** section planes (tip cap rolled 35°) | 2 |
-| `mitred-vtail-35-y-up` | As `mitred-vtail-35`, written with **Y up**: every point as (x, z, −y) | 2 |
+| `mitred-vtail-35-y-up` | As `mitred-vtail-35`, written with the **Fusion 360 fix** (Y up): every point as (x, z, −y) | 2 |
 | `mitred-gull-15-5` | z 80.3848 mm at section 2 and 54.1382 mm at the tip (panels of 15° and −5°); **Mitred** section planes (rolls 0°, 5°, −5°), linear blending with 8 stations per panel | 2 |
 
 ## Documentation
@@ -537,7 +537,7 @@ Desktop: 1280 x 800 CSS px, device scale 1. Phone: Pixel 7, device scale 2.625. 
 | `planform.png` | **Planform** tab, **Glider**, nose line and end line on | 600 x 730 | 600 x 730 |
 | `airfoils.png` | **Airfoils** tab, **Glider** | 600 x 730 | 600 x 730 |
 | `upload-preview.png` | Upload preview of a synthetic X/Yo/Yu percent table with decimal commas, opened over the **Glider** | 640 x 646 | 640 x 710 |
-| `export-dialog.png` | **Export** dialog, **Glider** | 640 x 588 | 640 x 634 |
+| `export-dialog.png` | **Export** dialog, **Glider** | 640 x 548 | 640 x 594 |
 | `settings.png` | **Settings** tab, **Glider** | 600 x 730 | 600 x 730 |
 | `checks.png` | **Checks** tab, **Glider** | 600 x 730 | 600 x 730 |
 | `flying-wing-control-net.png` | 3D view, **Swept flying wing**, **Show NURBS control net** on | 680 x 730 | 680 x 730 |
